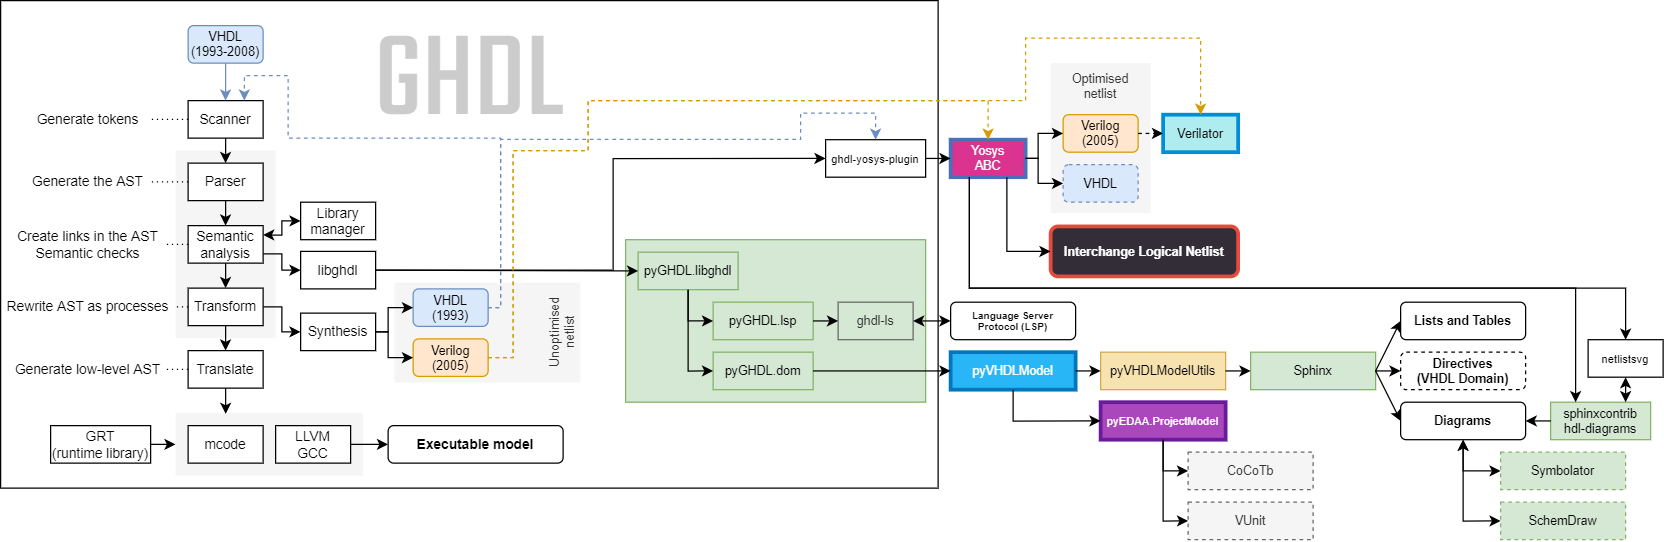
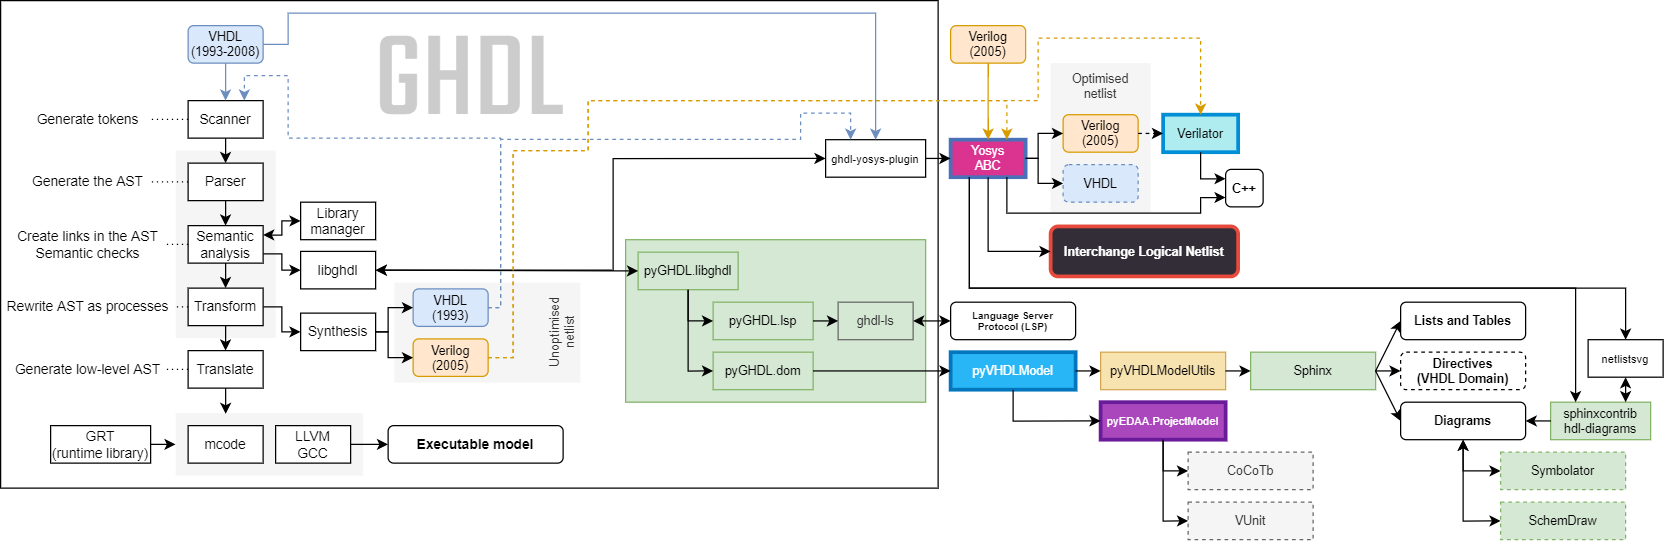
doc: add section 'Co-design'; add figure 'software-hardware'; update figure 'ghdl'

diff --git a/doc/site/Co-design.rst b/doc/site/Co-design.rst
@@ -1,0 +1,10 @@
+.. _Co-design:
+
+Hardware-software co-design
+###########################
+
+.. figure:: _static/img/software-hardware.png
+   :width: 100%
+   :align: center
+
+   Summary of software-hardware co-execution solutions.

diff --git a/doc/site/index.rst b/doc/site/index.rst
@@ -17,6 +17,7 @@ Co-simulation and behavioural verification with VHDL, C/C++ and Python/m
 
   Home <http://umarcor.github.io/SIEAV>
   VHDL
+  Co-design
   Installation
   VUnit
   Control
